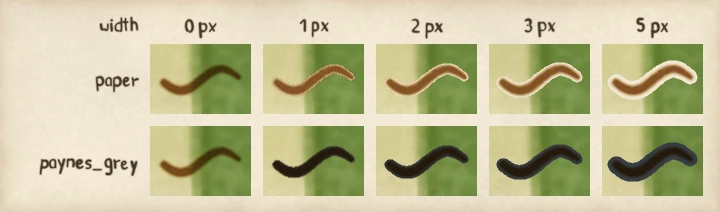
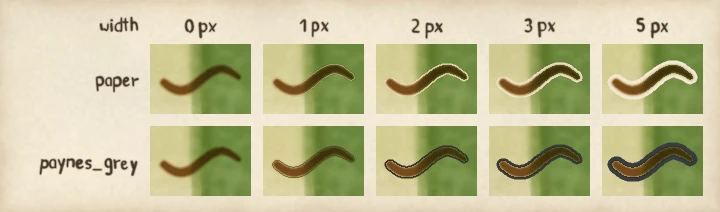
docs(docs): repaint the sweeps after casing and glow keep the line's pixels
Claude-Session: https://claude.ai/code/session_01FWNGTJLy72Gh2VopEVwzsE

diff --git a/specs/009a-line-effect-figures-and-galleries/plan.md b/specs/009a-line-effect-figures-and-galleries/plan.md
@@ -833,6 +833,15 @@ no worktrees are needed.
   | `halo` | `spread_px` 1.0, `blur_px` 2.5, `strength` 0.8 | `spread_px` 1.5, `blur_px` 3.0, `strength` 0.85 | lifts water and route toward the paper with no hard edge; at spread 2 and strength 0.9 it began to read as a screen glow, and a blur of 4 spread it into a smudge |
   | `lifted` | `offset_px` 1.2, `blur_px` 1.5, `strength` 0.35 | `offset_px` 2.5, `blur_px` 2.0, `strength` 0.45 | the provisional shadow was invisible at display size; 2.5 px falls south-east of the line as a soft edge, and a blur of 2 keeps it a soft lift, not a dark smear |
 
+  **Re-judged after PR 1's fix 8be0b017** (casing and glow leave every pixel at or past the
+  threshold untouched). The sweeps were repainted: the casing and glow sweeps and their masters
+  changed (a `paynes_grey` casing is now a brown road inside a dark ring, and a glow lifts round
+  the line without washing it out); the shadow and pen casing sweeps came out byte-identical. The
+  three presets were painted again on the Ambleside crop for the route, `road_major` and the
+  `major`, `medium` and `minor` water classes. `cased` reads as a thin paper ring, `halo` is a soft
+  pale margin with the line's own colour intact (the haze on rivers the old maths gave is gone) and
+  `lifted` a soft south-east edge. No value is retuned.
+
   `tests/unit/maps/test_line_effects.py::test_the_presets_hold_the_values_tuned_by_eye` pins
   them. No test pinned the provisional numbers, so no pin moved.
 - **New images are added in their slice; moved ones in G.** The registration test needs
